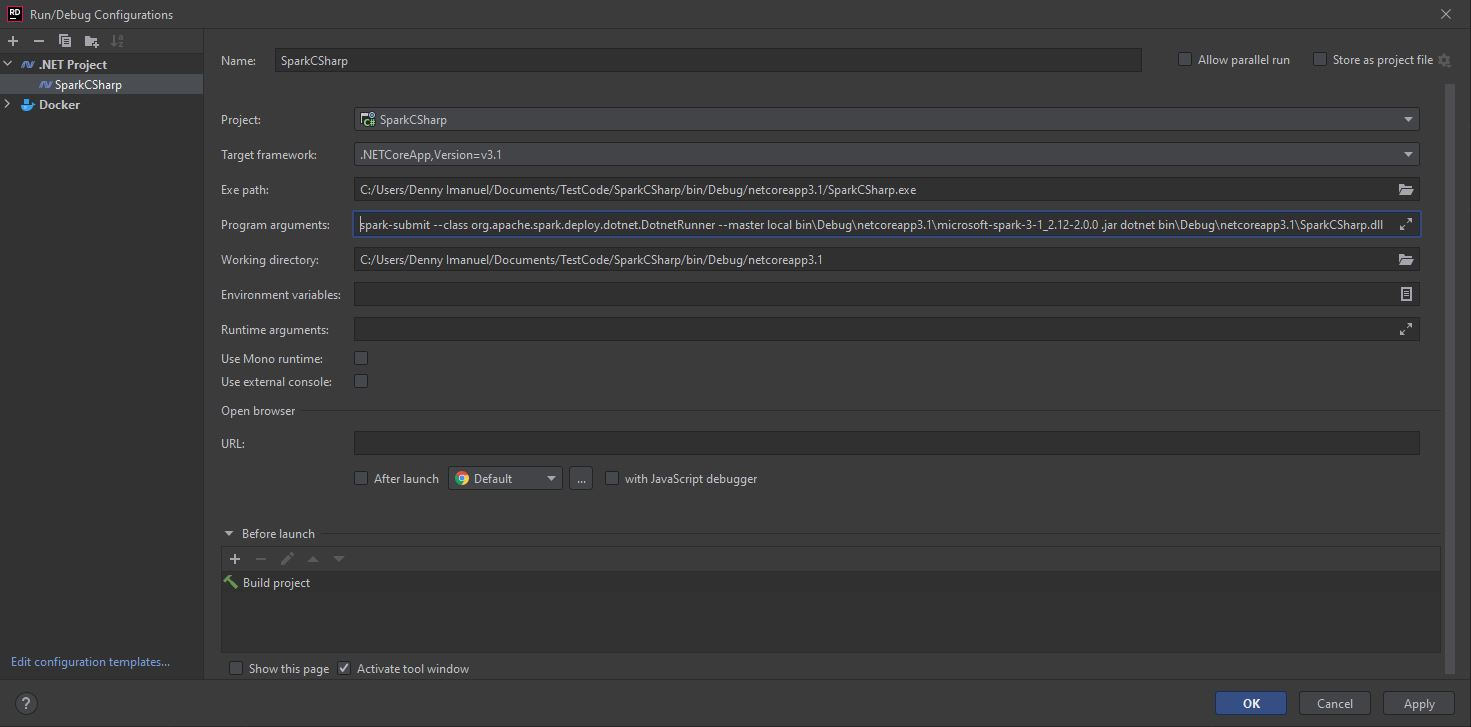
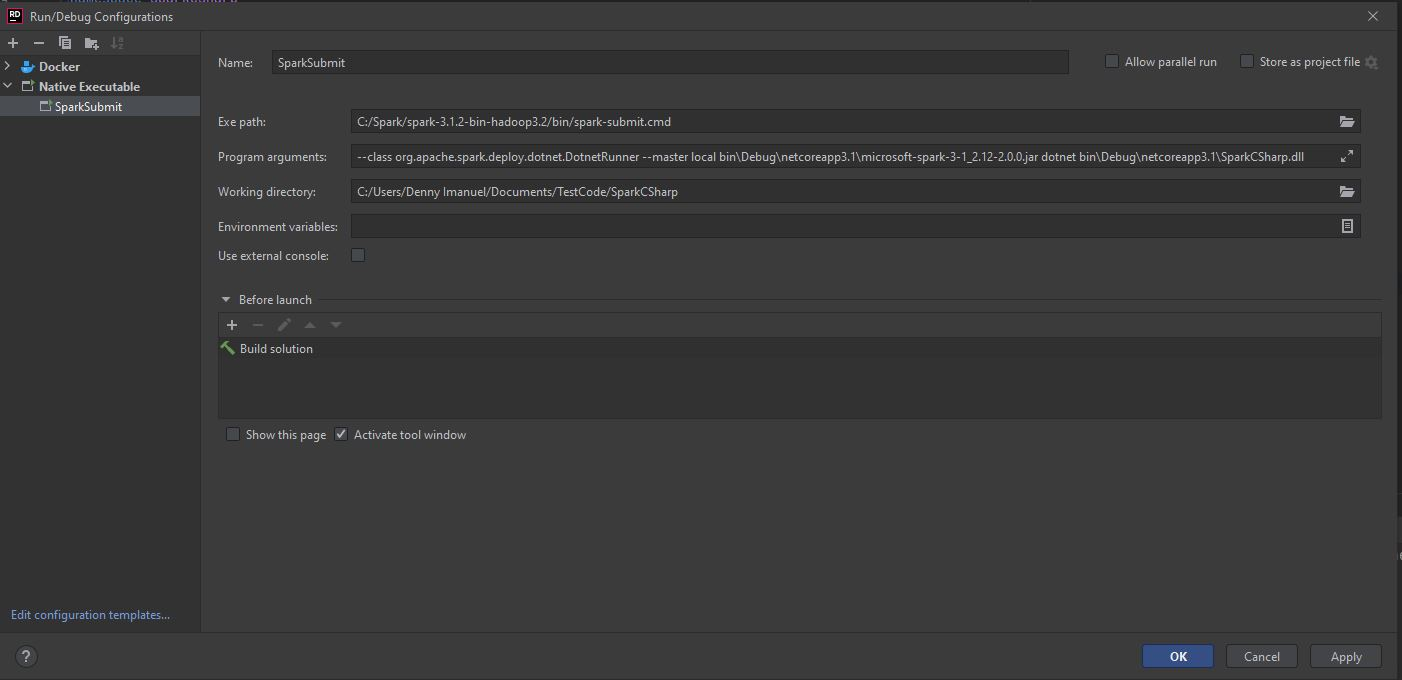
Update Readme

diff --git a/Readme.md b/Readme.md
@@ -18,7 +18,7 @@ For more info: https://dotnet.microsoft.com/en-us/learn/data/spark-tutorial/inst
 
 ### Localhost Config
 
-You need to add the spark-submit command to program argument in order to run/debug Spark application:
+To build and run Spark app run Spark Submit command or create a new configuration under External Executable as follows:
 
 >dotnet build
 
@@ -44,7 +44,11 @@ To build and run Spark on Docker you create Dockerfile config or run Docker buil
 
 ![](jpg/docker.jpg)
 
-    
+### Output Result
+
+If the Spark application is successfully build it should print out result table as follows:
+
+![](jpg/result.jpg)
     
     
 
